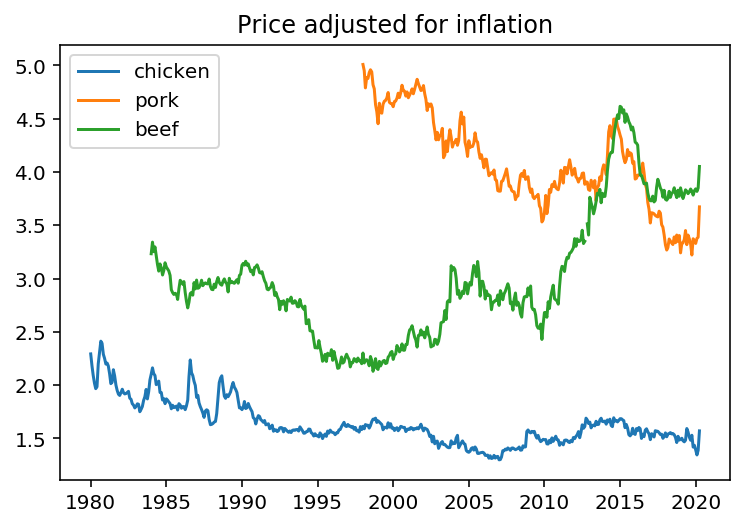
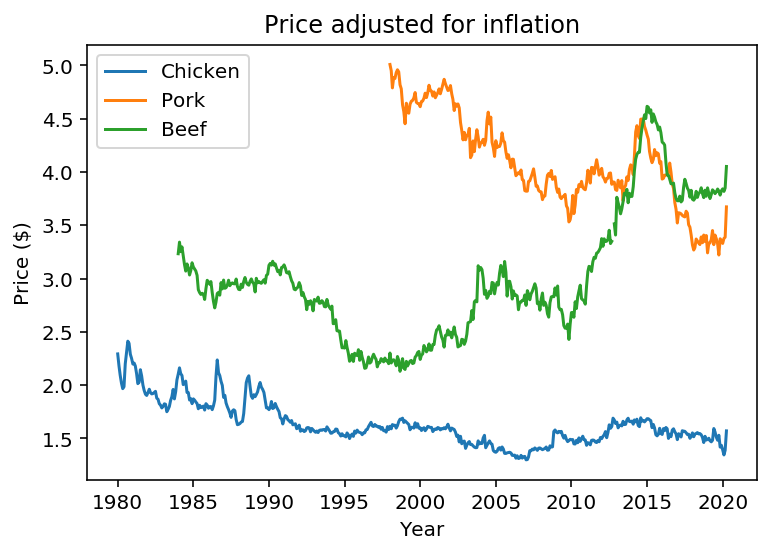
Rearranging text

diff --git a/src/price_check.py b/src/price_check.py
@@ -1,25 +1,25 @@
 #!/usr/bin/env python
 # coding: utf-8
 
-# # Claims made about poultry, pork, and beef.
-# 
-# Article [here](https://www.bloomberg.com/news/articles/2020-05-11/why-chicken-is-plentiful-during-the-pandemic-and-beef-is-not?srnd=premium&utm_medium=social&utm_source=twitter&utm_campaign=socialflow-organic&utm_content=markets&cmpid%3D=socialflow-twitter-markets&sref=XQtHDW1P).
-
 # ### “poultry costs U.S. consumers 62% less in inflation-adjusted terms than it did in 1935”
 # 
 # ### “Pork, now also raised mostly at factory scale indoors, is 12% cheaper”
 # 
 # ### “Beef, which isn’t, costs 63% more. “
 # 
-# I'm going to go to FRED and get the price of Chicken, Fresh, Whole, Per Lb. (453.6 Gm) in U.S. City Average. [Here](https://fred.stlouisfed.org/series/APU0000706111#0) This way I can download the data in a nice clean format. 
-# 
-# Series ID APU0000706111
-# 
-# I'll need to adjust for inflation, so I'll use the CPI: [CPIAUCSL](https://fred.stlouisfed.org/series/CPIAUCSL).
-# 
-# **Also, I can't find where he got data going all the way back to the 30s??**
 
-# In[2]:
+# ### Data sources
+# 
+# In order to validate the claims from [this](https://www.bloomberg.com/news/articles/2020-05-11/why-chicken-is-plentiful-during-the-pandemic-and-beef-is-not?srnd=premium&utm_medium=social&utm_source=twitter&utm_campaign=socialflow-organic&utm_content=markets&cmpid%3D=socialflow-twitter-markets&sref=XQtHDW1P) article, I pulled data from the FRED database, which pulls from the BLS. Each link will take you to the exact series that I downloaded here.
+# 
+# - [CPI (for inflation)](https://fred.stlouisfed.org/series/CPIAUCSL)
+# - [Poultry](https://fred.stlouisfed.org/series/APU0000706111)
+# - [Pork](https://fred.stlouisfed.org/series/APU0000FD3101)
+# - [Beef](https://fred.stlouisfed.org/series/APU0000703112)
+# 
+# Not sure where he's getting data 
+
+# In[15]:
 
 
 import pandas as pd
@@ -54,8 +54,10 @@ df['new_pork'] = apply_adjust(df, 'pork', MOST_RECENT)
 df['new_chicken'] = apply_adjust(df, 'chicken', MOST_RECENT)
 df['new_beef'] = apply_adjust(df, 'beef', MOST_RECENT)
 
-plt.plot(df['date'], df['new_chicken'], label='chicken');
-plt.plot(df['date'], df['new_pork'], label='pork');
-plt.plot(df['date'], df['new_beef'], label='beef')
+plt.plot(df['date'], df['new_chicken'], label='Chicken');
+plt.plot(df['date'], df['new_pork'], label='Pork');
+plt.plot(df['date'], df['new_beef'], label='Beef')
 plt.legend(loc="upper left");
+plt.xlabel("Year");
+plt.ylabel("Price ($)")
 plt.title("Price adjusted for inflation");

diff --git a/price_check.md b/price_check.md
@@ -1,20 +1,20 @@
-# Claims made about poultry, pork, and beef.
-
-Article [here](https://www.bloomberg.com/news/articles/2020-05-11/why-chicken-is-plentiful-during-the-pandemic-and-beef-is-not?srnd=premium&utm_medium=social&utm_source=twitter&utm_campaign=socialflow-organic&utm_content=markets&cmpid%3D=socialflow-twitter-markets&sref=XQtHDW1P).
-
 ### “poultry costs U.S. consumers 62% less in inflation-adjusted terms than it did in 1935”
 
 ### “Pork, now also raised mostly at factory scale indoors, is 12% cheaper”
 
 ### “Beef, which isn’t, costs 63% more. “
 
-I'm going to go to FRED and get the price of Chicken, Fresh, Whole, Per Lb. (453.6 Gm) in U.S. City Average. [Here](https://fred.stlouisfed.org/series/APU0000706111#0) This way I can download the data in a nice clean format. 
 
-Series ID APU0000706111
+### Data sources
 
-I'll need to adjust for inflation, so I'll use the CPI: [CPIAUCSL](https://fred.stlouisfed.org/series/CPIAUCSL).
+In order to validate the claims from [this](https://www.bloomberg.com/news/articles/2020-05-11/why-chicken-is-plentiful-during-the-pandemic-and-beef-is-not?srnd=premium&utm_medium=social&utm_source=twitter&utm_campaign=socialflow-organic&utm_content=markets&cmpid%3D=socialflow-twitter-markets&sref=XQtHDW1P) article, I pulled data from the FRED database, which pulls from the BLS. Each link will take you to the exact series that I downloaded here.
 
-**Also, I can't find where he got data going all the way back to the 30s??**
+- [CPI (for inflation)](https://fred.stlouisfed.org/series/CPIAUCSL)
+- [Poultry](https://fred.stlouisfed.org/series/APU0000706111)
+- [Pork](https://fred.stlouisfed.org/series/APU0000FD3101)
+- [Beef](https://fred.stlouisfed.org/series/APU0000703112)
+
+Not sure where he's getting data 
 
 
 ![png](price_check_files/price_check_2_0.png)
